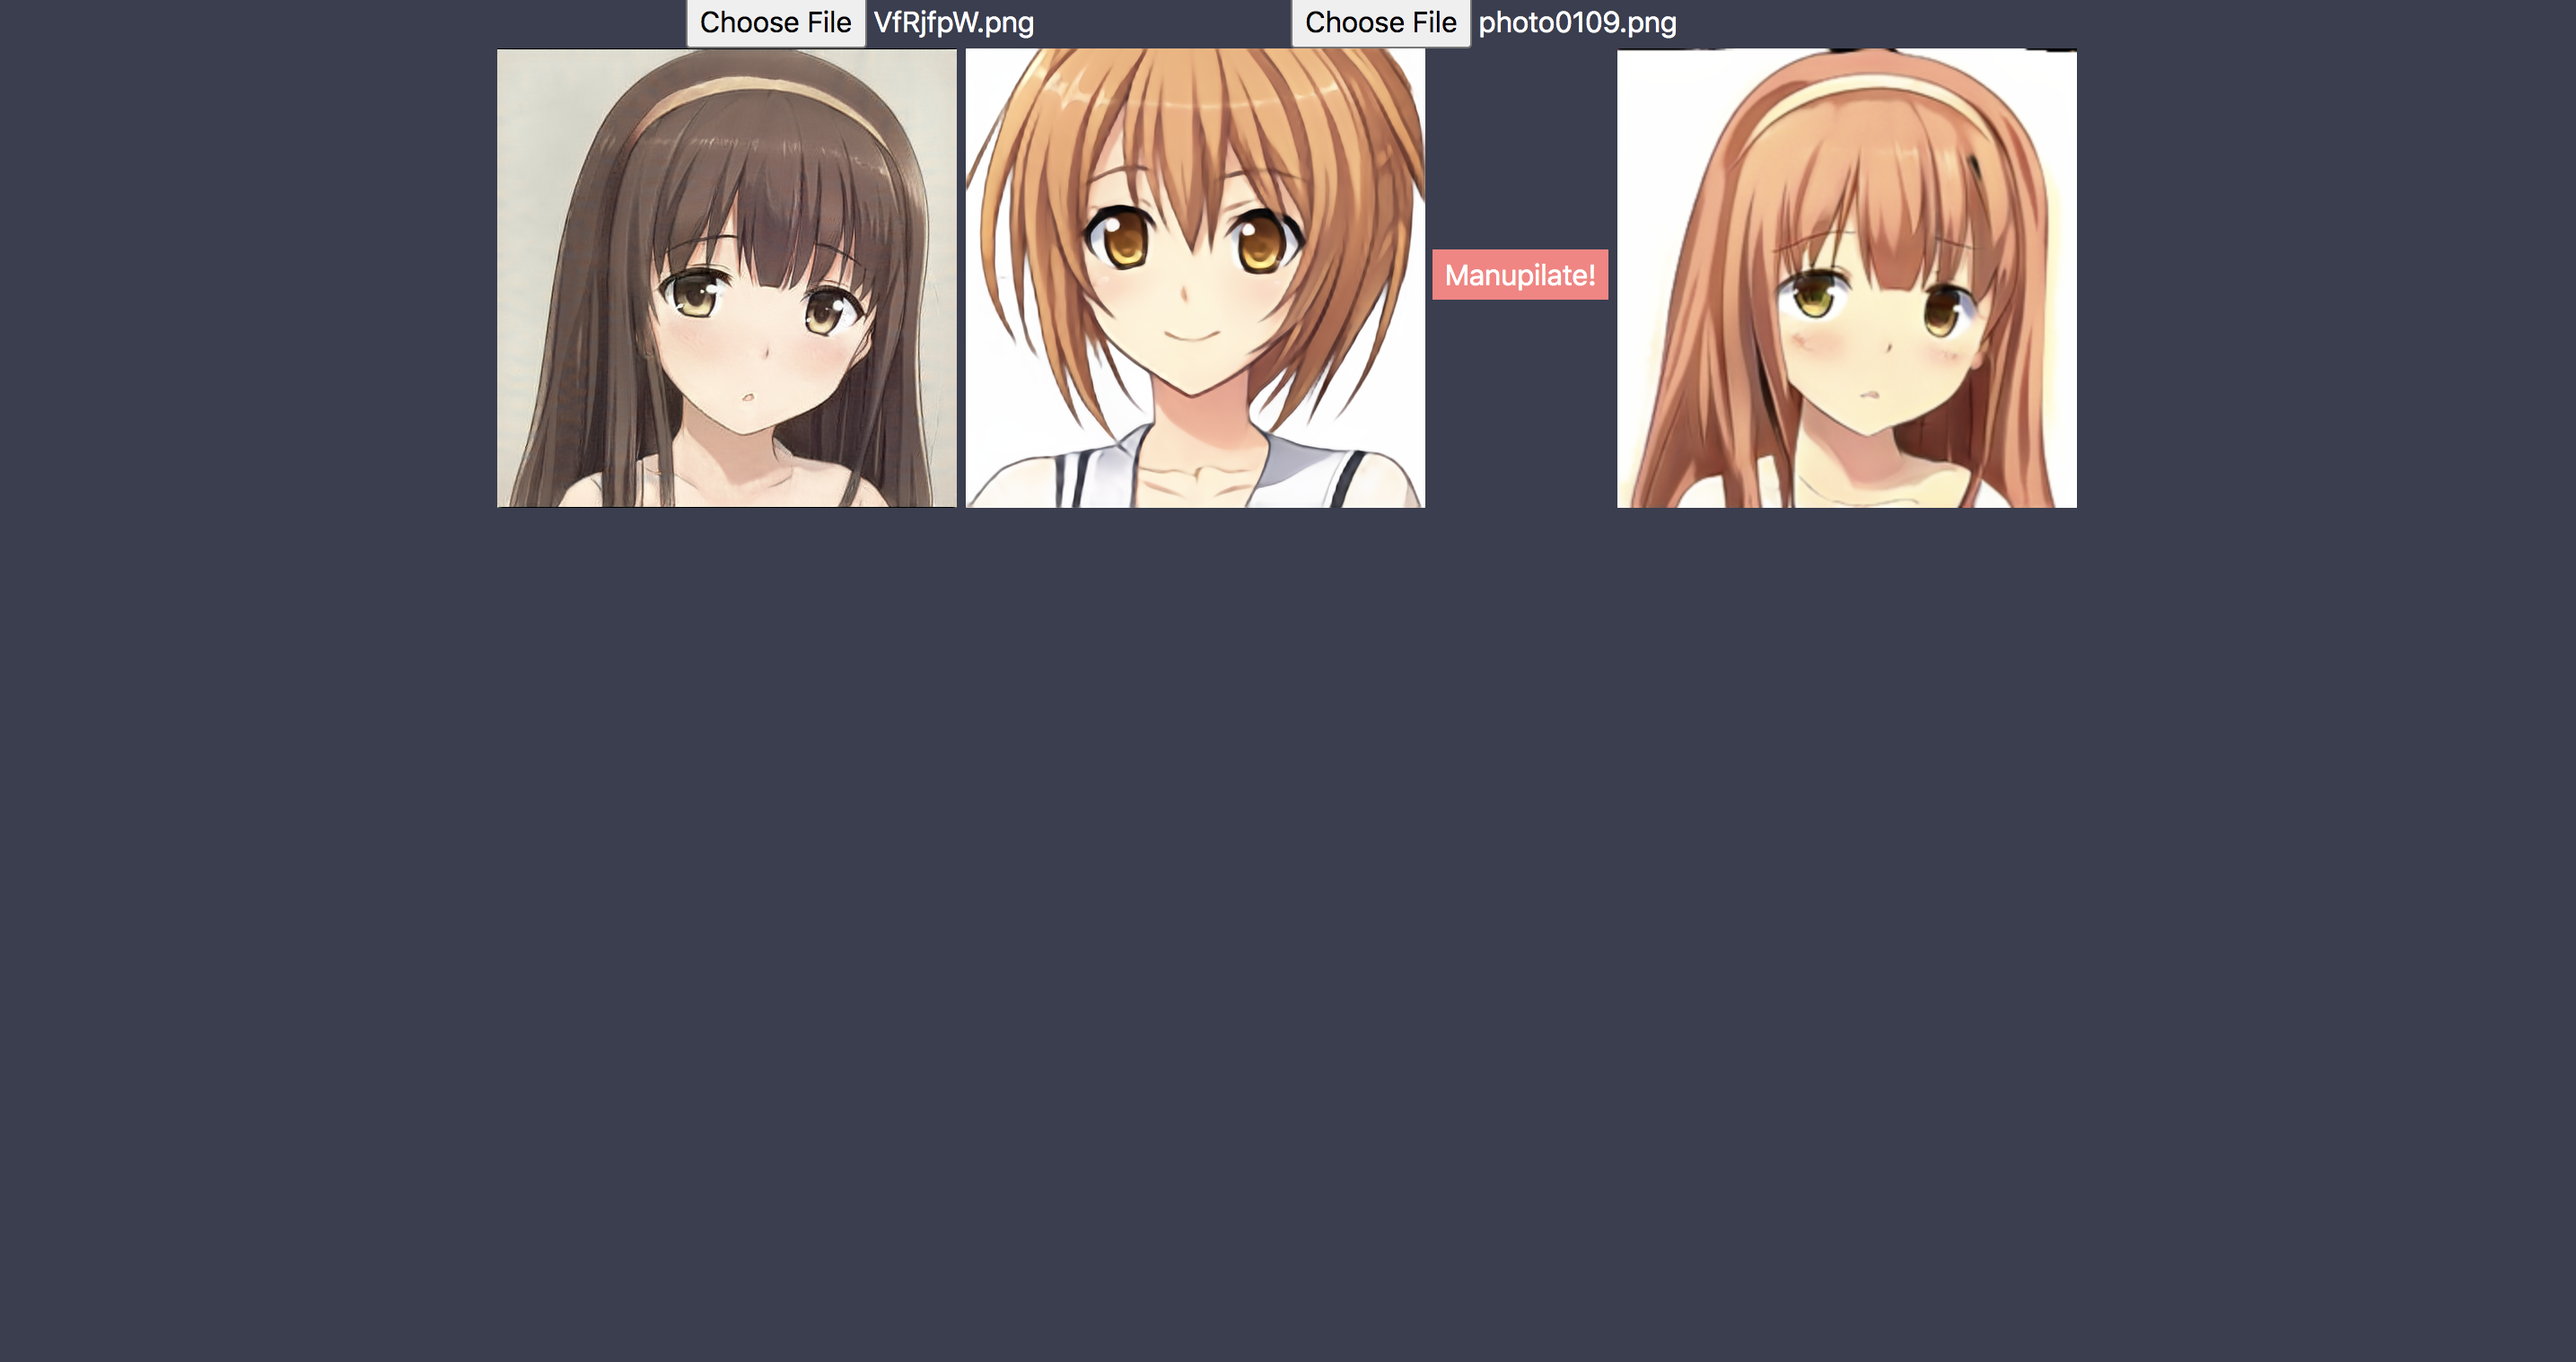
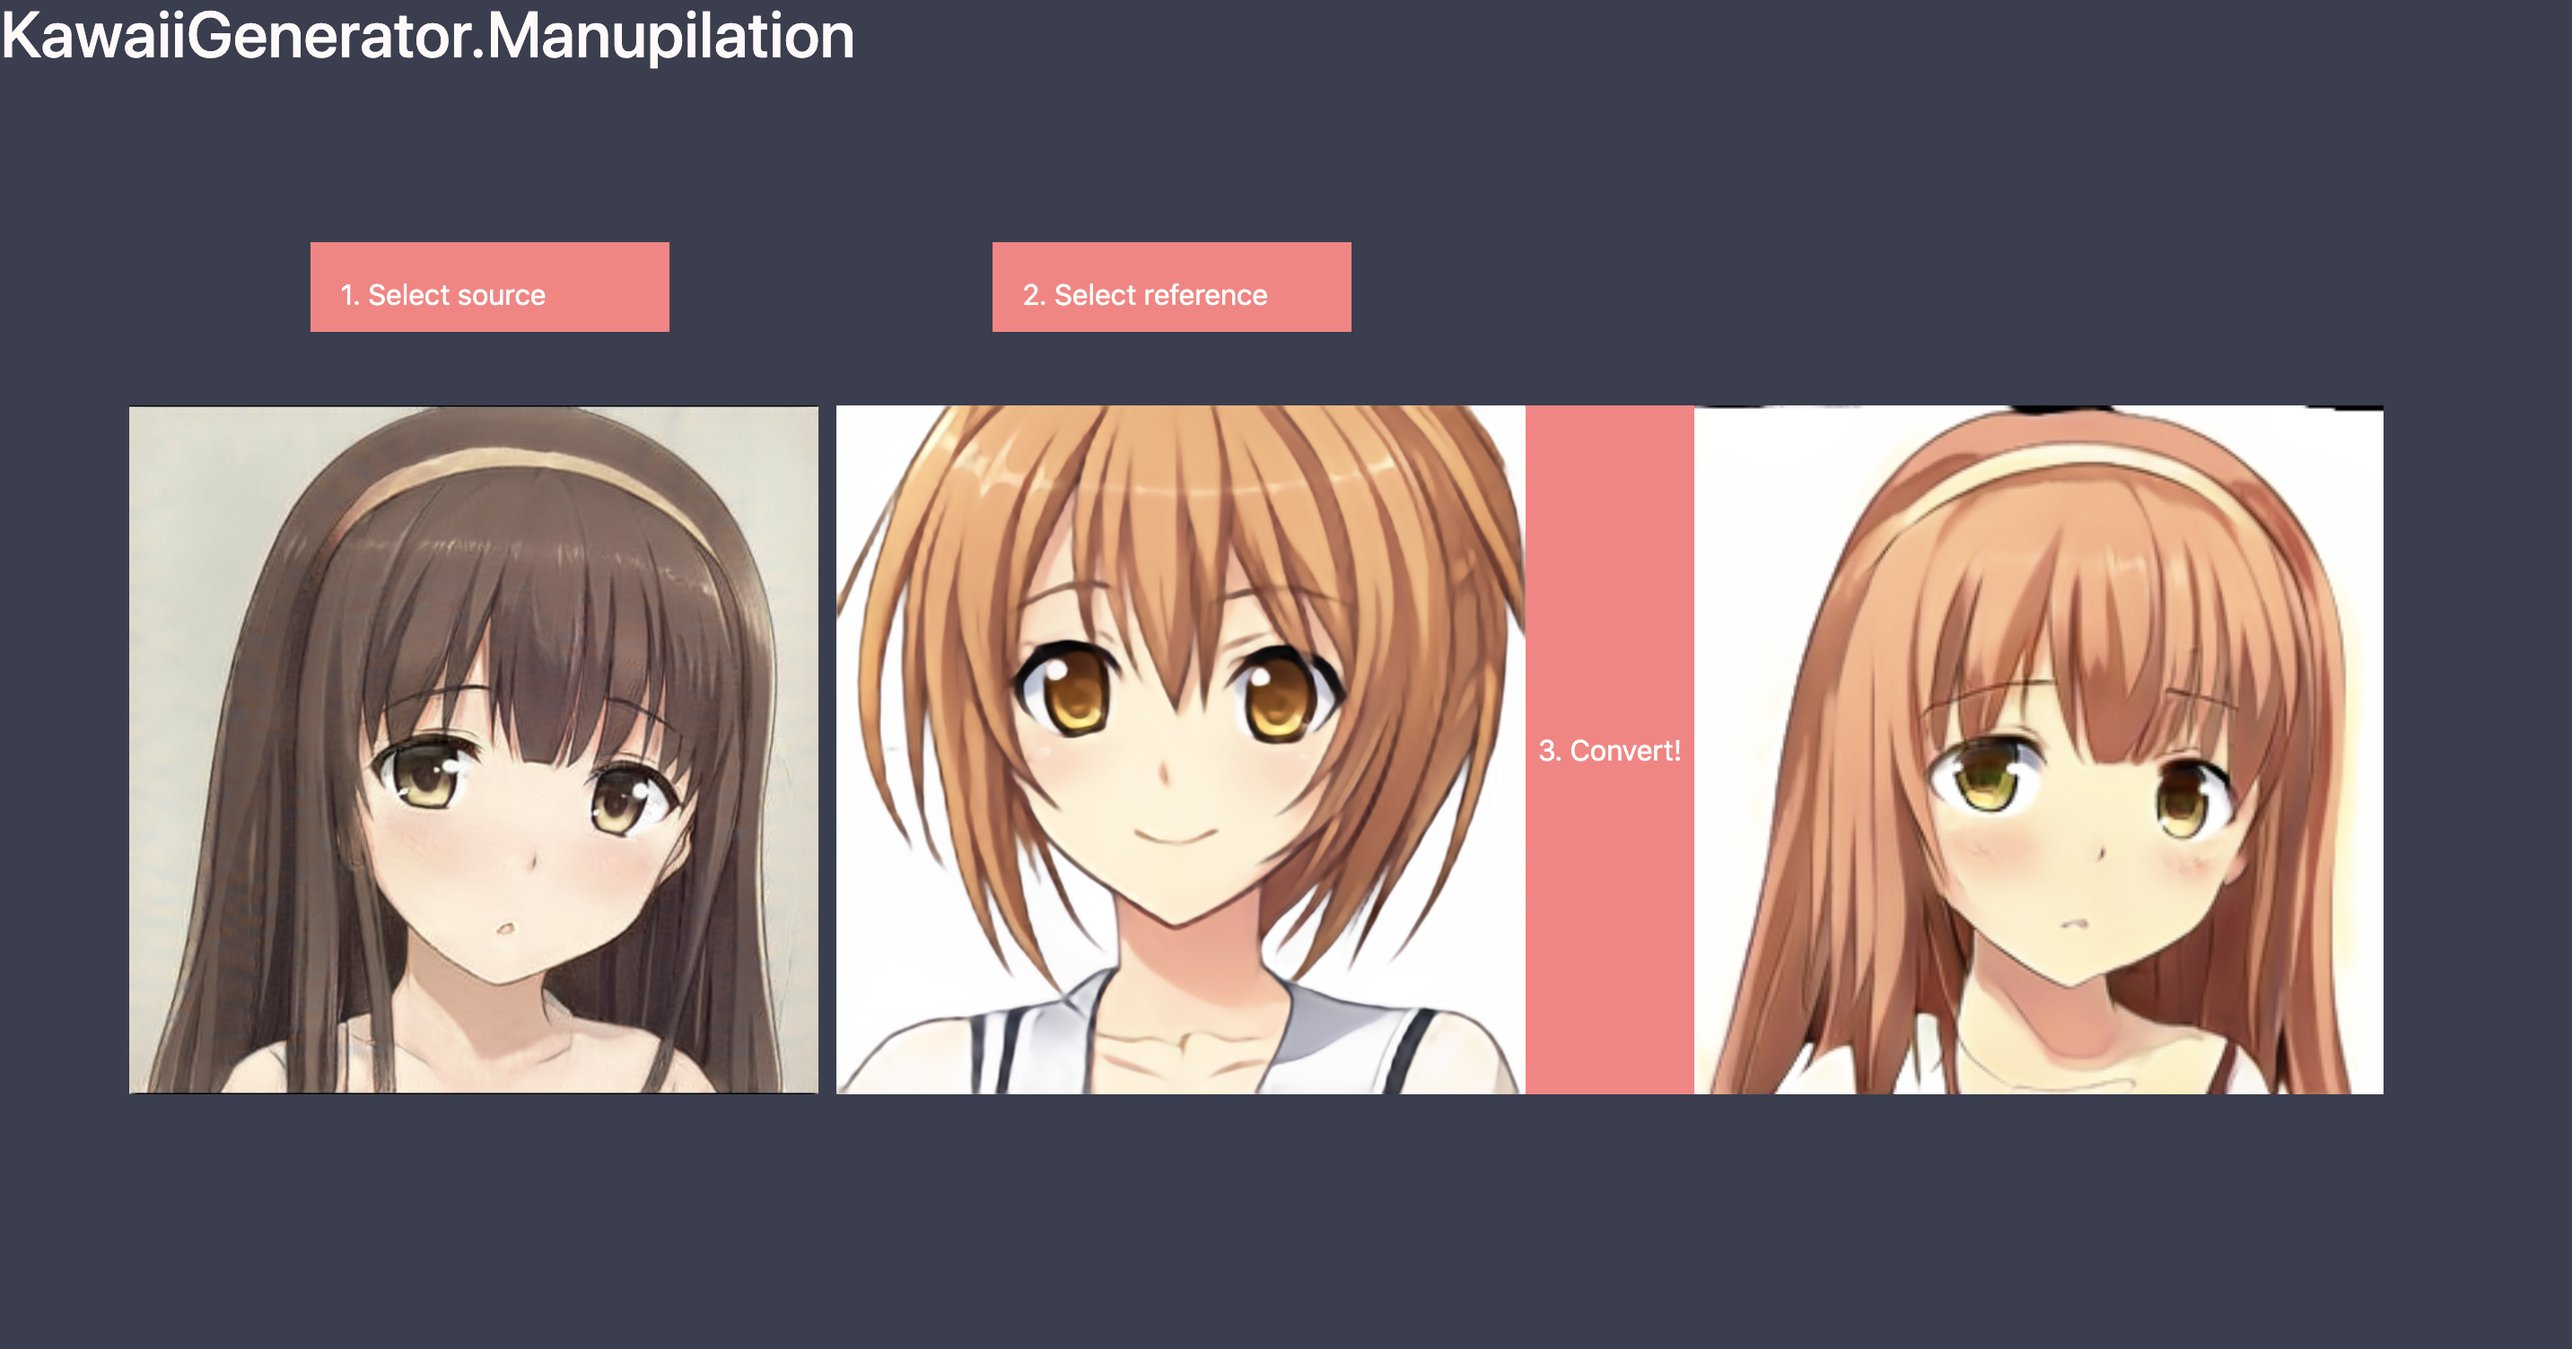
update GUI

diff --git a/gui/static/style.css b/gui/static/style.css
@@ -6,6 +6,10 @@ html {
 body {
     background-color: #393e4f;
 }
+
+table {
+    margin: auto;
+  }
   
 .upload {
     margin: 0 auto;
@@ -13,8 +17,10 @@ body {
 }
 
 .images {
-    margin: 0 auto;
-    vertical-align: middle;
+    display: flex;
+    position: absolute;
+    top: 30%;
+    left: 5%;
 }
 
 .manupilate {
@@ -28,3 +34,64 @@ body {
     background: #ffd1d1;
     color: #FFF;
 }
+
+.prepare_reference {
+    display: -webkit-flex;
+    display: flex;
+    position: absolute;
+    top: 18%;
+    left: 12%;
+  }
+  
+.inputline {
+    display: inline-block;
+    overflow: hidden;
+    position: relative;
+    padding: 1em;
+    border: 1px solid #ff7f7f;
+    background: #ff7f7f;
+    color:#fff;
+    width: 200px;
+    height: 50px;
+    vertical-align: middle;
+  }
+  
+.inputline input[type="file"] {
+    opacity: 0;
+    filter: progid:DXImageTransform.Microsoft.Alpha(opacity=0);
+    position: absolute;
+    right: 0;
+    top: 0;
+    margin: 0;
+    font-size: 100px;
+    cursor: pointer;
+  }
+  
+.inputreference {
+    display: inline-block;
+    overflow: hidden;
+    position: relative;
+    padding: 1em;
+    border: 1px solid #ff7f7f;
+    background: #ff7f7f;
+    color:#fff;
+    width: 200px;
+    height: 50px;
+    left: 45%;
+    vertical-align: middle;
+  }
+  
+.inputreference input[type="file"] {
+    opacity: 0;
+    filter: progid:DXImageTransform.Microsoft.Alpha(opacity=0);
+    position: absolute;
+    right: 0;
+    top: 0;
+    margin: 0;
+    font-size: 100px;
+    cursor: pointer;
+  }
+
+.ref_result {
+    margin-left: 10px;
+  }

diff --git a/gui/templates/start.html b/gui/templates/start.html
@@ -9,16 +9,26 @@
     <title>{{ .Title }}</title>
 </head>
 <body>
-    <div class="upload" style="text-align: center;">
-        <input type="file" name="src_upload" id="src_upload">
-        <input type="file" name="ref_upload" id="ref_upload">
+    <div class="title">
+        <h1 class="titlesentence" style="font-size:36px; color: snow; text-align: left;">{{ .Title }}.Manupilation</h1>
+    </div>
+
+    <div class="prepare_reference">
+        <div class="inputline">
+            1. Select source
+            <input type="file" name="src_upload" id="src_upload">
+        </div>
+        <div class="inputreference">
+            2. Select reference
+            <input type="file" name="ref_upload" id="ref_upload">
+        </div>
     </div>
 
     <div class="images" style="text-align: center;">
-        <image src="/static/first.png" width="256" height="256" class="src_result"></image>
-        <image src="/static/first.png" width="256" height="256" class="ref_result"></image>
-        <button class="manupilate">Manupilate!</button>
-        <image src="/static/first.png" width="256" height="256" class="y_result"></image>
+        <image src="/static/first.png" width="384" height="384" class="src_result"></image>
+        <image src="/static/first.png" width="384" height="384" class="ref_result"></image>
+        <button class="manupilate">3. Convert!</button>
+        <image src="/static/first.png" width="384" height="384" class="y_result"></image>
     </div>
 
     <script type="text/javascript" src="/static/render.js"></script>
